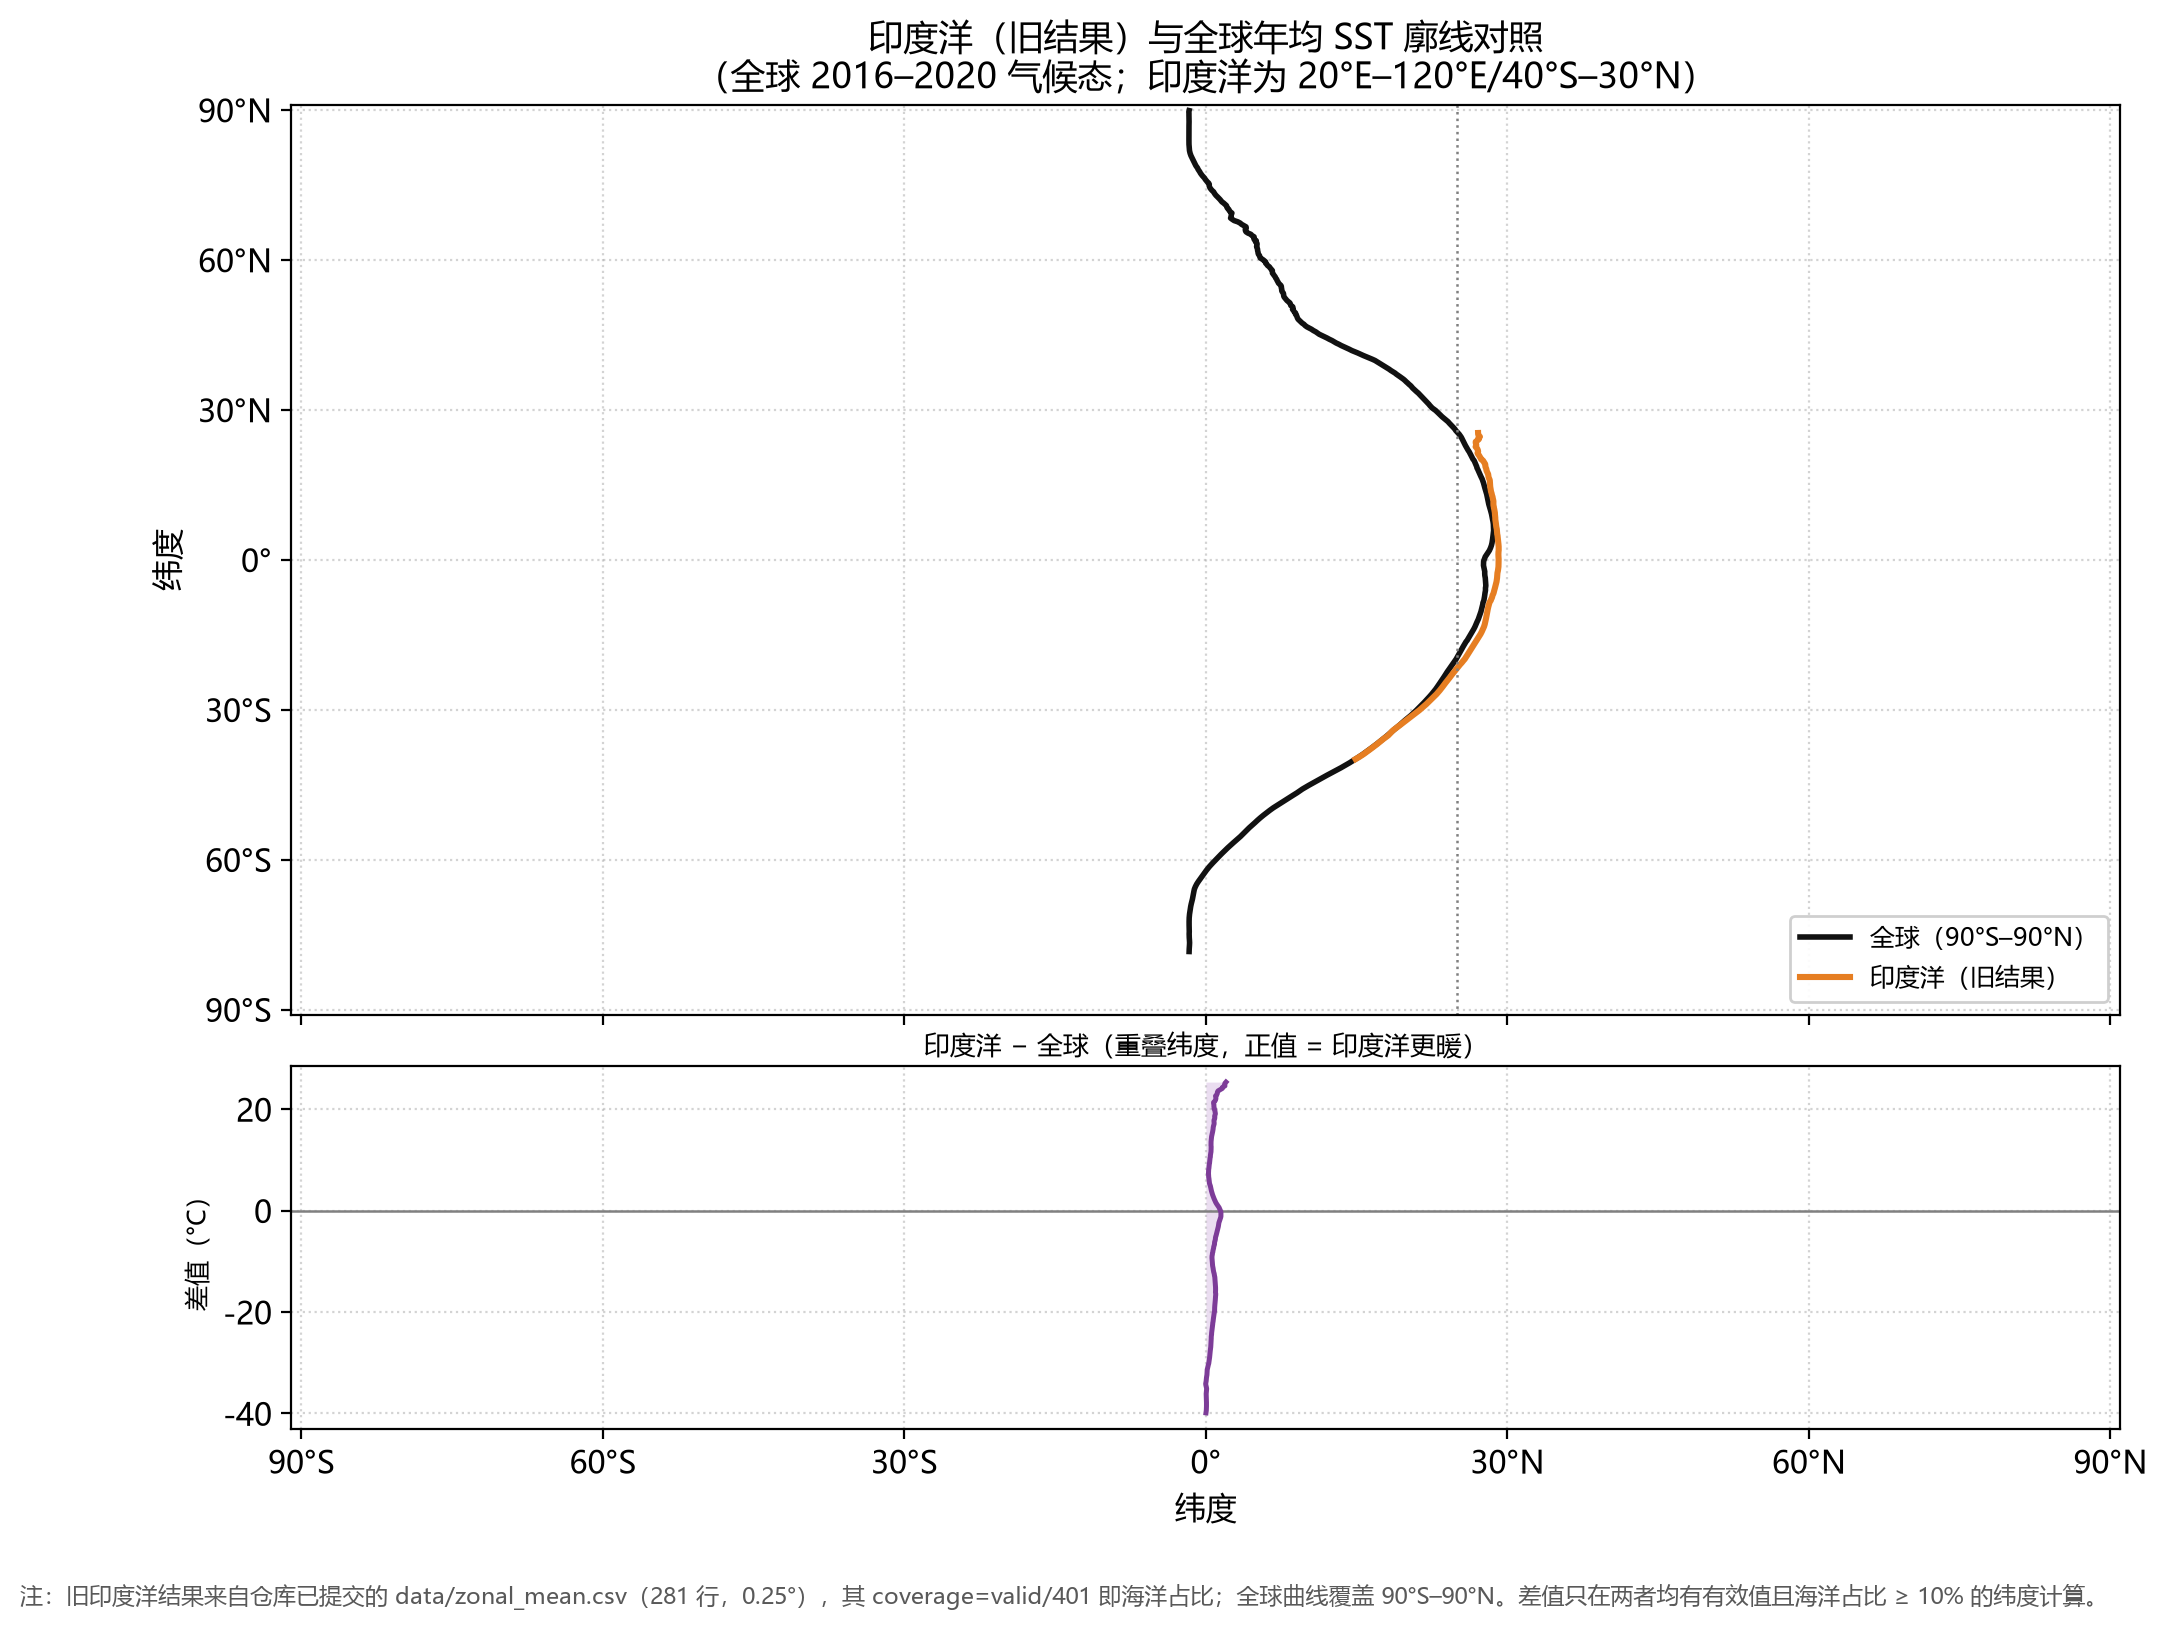
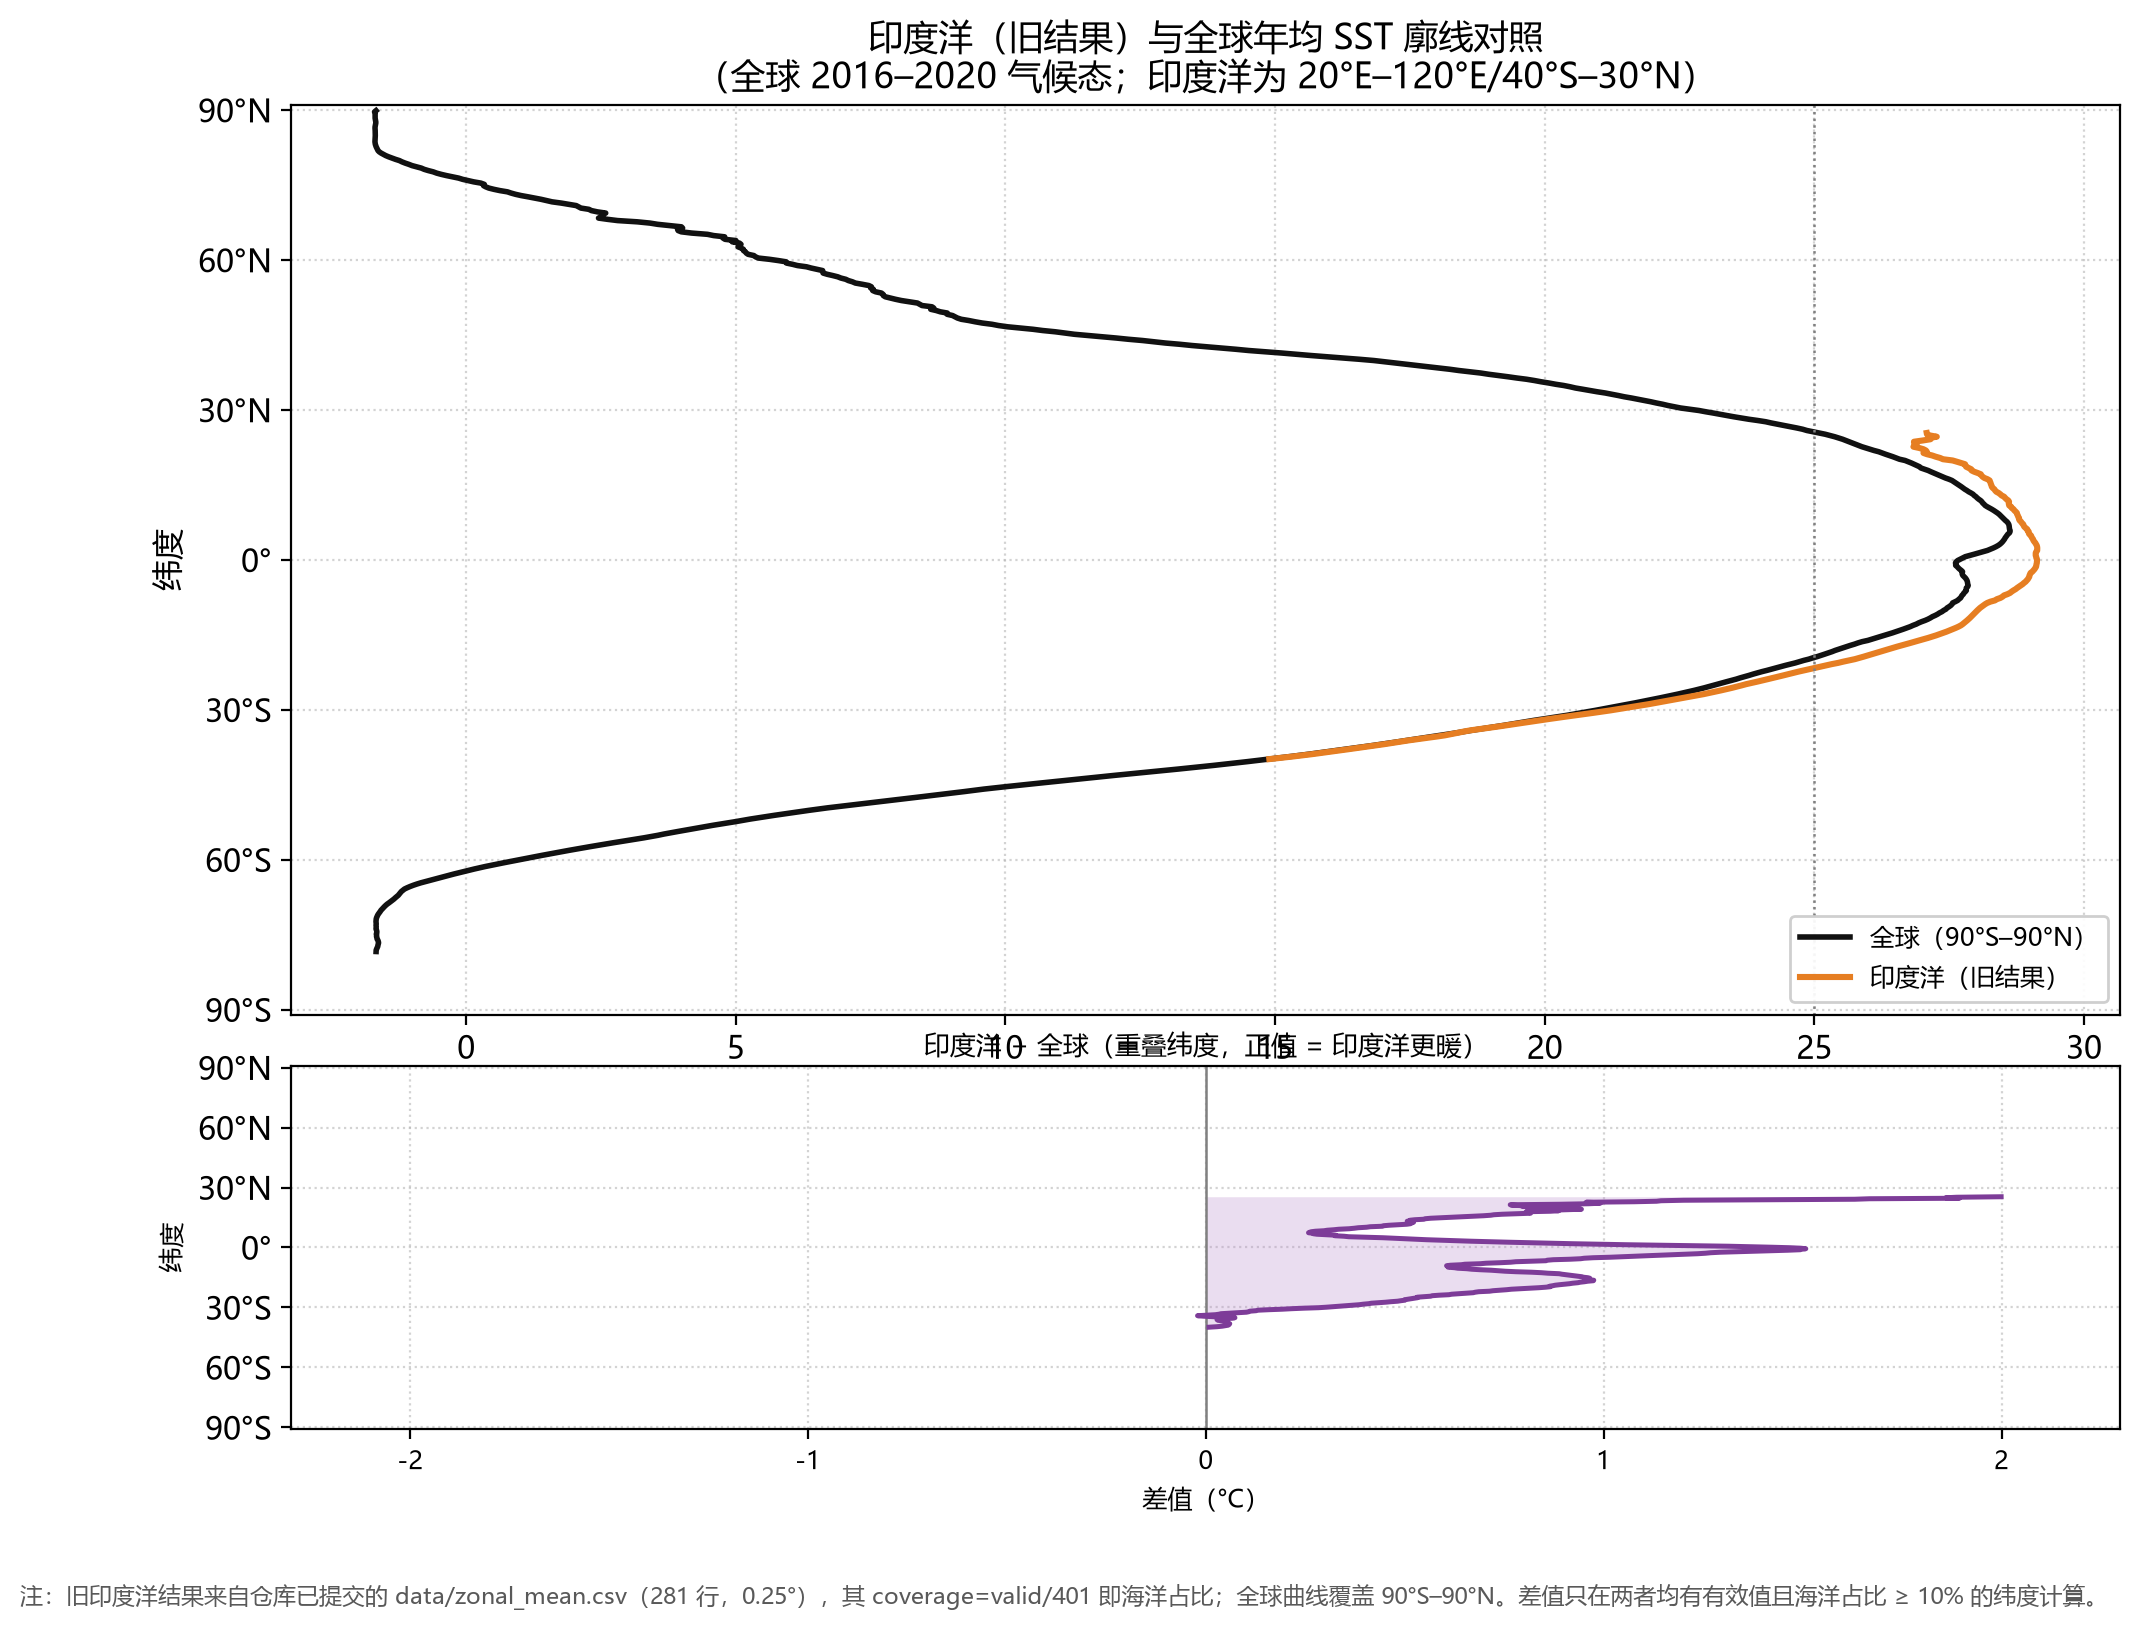
fix: 修复印度洋差值图坐标轴与地图内陆湖显示
- indian_vs_global 去掉 sharex，改 sharey=ax；主图恢复 SST 横轴，差值图独立 差值(°C) 横轴（±2.3°C），两图纬度严格对齐
- global_sst_map 先按 basin_mask=0 将里海/五大湖/拉多加湖 1302 格置 NaN（显示为灰）
- README/图注按 basins.py 实际边界、ERDDAP 格点中心与 data/raw_global 更新
- figures/dev 取消跟踪并加入 .gitignore（本地保留）
- 重出 5 张正式图；indian_vs_global 2140×1630 218KB；verify 6/0/0；run_all EXIT=0

diff --git a/scripts/plot.py b/scripts/plot.py
@@ -577,11 +577,11 @@ def plot_basins(ctx: dict, cov_min: float) -> Path:
     ax2.legend(handles=proxy, loc="lower right", framealpha=0.93, fontsize=9)
 
     note = (
-        "注：分海盆边界为近似划分（印度洋 20°E–120°E，太平洋 120°E–280°E，其余归大西洋；"
-        "66°N 以北为北冰洋，60°S 以南为南大洋）。"
-        "曲线门槛统一用海洋占比 valid_count/1440 ≥ "
-        f"{cov_min:.0%}（分盆文件无 zonal_ocean_frac 列时现算），"
-        "coverage（valid_count/ocean_grid_count）只反映冰情/缺测，不用于门槛。"
+        "注：海盆边界按 scripts/basins.py 近似实现：\n"
+        "印太 8°S 以南 120°E、8°S–6°S→105.5°E、6°S–1.5°N→103.5°E、1.5°N 以北 100.5°E（安达曼海归印度洋、南海归太平洋）；"
+        "印大 30°N 以南 20°E、以北 45°E；太西 19–66.5°N 258°E、−60°S 附近 292.75°E；\n"
+        "北冰洋 66.5°N 以北、南大洋 60°S 以南。曲线门槛用海洋占比 valid_count/1440 ≥ "
+        f"{cov_min:.0%}（分盆文件现算），coverage（valid_count/ocean_grid_count）只反映冰情/缺测，不作门槛；"
         "里海/五大湖/拉多加湖共 1302 格按内陆水体剔除。"
     )
     if ctx["synthetic"]:
@@ -601,6 +601,13 @@ def plot_map(ctx: dict, _cov_min: float = DEFAULT_COVERAGE_MIN) -> Path:
         grid_mask = npz["basin_mask"].astype(float) if "basin_mask" in npz.files else None
     if annual.shape != (len(lat), len(lon)):
         raise SystemExit(f"climatology_grid.npz 形状异常：{annual.shape} vs lat×lon")
+    if grid_mask is None and ctx["mask_npz"].exists():
+        with np.load(ctx["mask_npz"]) as npz:
+            if "basin_mask" in npz.files:
+                grid_mask = npz["basin_mask"].astype(float)
+    if grid_mask is not None and grid_mask.shape == annual.shape:
+        # 内陆湖（里海/五大湖/拉多加湖）在 basin_mask 中为 0，必须显示为陆地而不是暖色海温
+        annual = np.where(grid_mask > 0, annual, np.nan)
 
     cmap = matplotlib.colormaps["RdYlBu_r"].copy()
     cmap.set_bad("#E6E6E6")
@@ -762,11 +769,12 @@ def plot_indian_vs_global(ctx: dict, cov_min: float) -> Path:
     fig = plt.figure(figsize=(11.8, 8.6))
     gs = fig.add_gridspec(2, 1, height_ratios=[2.5, 1.0], hspace=0.08)
     ax = fig.add_subplot(gs[0, 0])
-    axd = fig.add_subplot(gs[1, 0], sharex=ax)
+    axd = fig.add_subplot(gs[1, 0], sharey=ax)
 
     ax.plot(np.where(ok_glob, sst_glob, np.nan), lat_glob, color="#111111", lw=2.0, label="全球（90°S–90°N）")
     ax.plot(np.where(ok_old, sst_old, np.nan), lat_old, color="#E67E22", lw=2.2,
             label="印度洋（旧结果）")
+    ax.set_xlabel("海表温度 SST（°C）")
     ax.set_ylabel("纬度")
     ax.yaxis.set_major_formatter(FuncFormatter(lat_formatter))
     ax.set_yticks(np.arange(-90, 91, 30))
@@ -777,16 +785,17 @@ def plot_indian_vs_global(ctx: dict, cov_min: float) -> Path:
     subtitle = "合成全球曲线（fixture）" if ctx["synthetic"] else "全球 2016–2020 气候态"
     ax.set_title(f"印度洋（旧结果）与全球年均 SST 廓线对照\n（{subtitle}；印度洋为 20°E–120°E/40°S–30°N）", fontsize=12.5)
     ax.legend(loc="lower right", framealpha=0.93, fontsize=9)
-    ax.tick_params(labelbottom=False)
+    ax.tick_params(labelbottom=True)
 
-    axd.axhline(0.0, color="0.5", lw=0.9)
+    axd.axvline(0.0, color="0.5", lw=0.9)
     axd.plot(np.where(ok_diff, diff, np.nan), lat_old, color="#7D3C98", lw=1.8)
     axd.fill_betweenx(lat_old, 0, np.where(ok_diff, diff, np.nan), color="#BB8FCE", alpha=0.3, lw=0)
-    axd.set_ylabel("差值（°C）", fontsize=9)
-    axd.set_xlabel("纬度")
-    axd.xaxis.set_major_formatter(FuncFormatter(lat_formatter))
-    axd.set_xlim(LAT_MIN - 1.0, LAT_MAX + 1.0)
-    axd.set_xticks(np.arange(-90, 91, 30))
+    axd.set_xlabel("差值（°C）", fontsize=9)
+    axd.set_ylabel("纬度", fontsize=9)
+    diff_abs = np.nanmax(np.abs(diff[ok_diff])) if ok_diff.any() else 0.5
+    lim = max(0.5, 1.15 * float(diff_abs))
+    axd.set_xlim(-lim, lim)
+    axd.tick_params(axis="x", labelsize=9)
     axd.grid(True, ls=":", lw=0.8, alpha=0.55)
     axd.set_axisbelow(True)
     axd.set_title("印度洋 − 全球（重叠纬度，正值 = 印度洋更暖）", fontsize=9.5, pad=4)

diff --git a/README.md b/README.md
@@ -21,7 +21,7 @@
   <https://coastwatch.pfeg.noaa.gov/erddap/griddap/ncdcOisst21Agg.csv>
 - **每个时次的请求**（原生 0.25°，不加 stride，全球范围）：
   ```
-  ?sst[(YYYY-MM-16T12:00:00Z):1:(YYYY-MM-16T12:00:00Z)][(0.0):1:(0.0)][(-90.0):1:(90.0)][(0.0):1:(359.75)]
+  ?sst[(YYYY-MM-16T12:00:00Z):1:(YYYY-MM-16T12:00:00Z)][(0.0):1:(0.0)][(-89.875):1:(89.875)][(0.125):1:(359.875)]
   ```
 - **时次**：2016–2020 年，每月 16 日 12:00 UTC 一个时次，共 **60 个**。
 - **返回规模**：2 行表头 + 720 × 1440 = 1,036,800 行数据。**实测体积**：单时次 CSV **45.8 MB**；
@@ -51,7 +51,7 @@
 │   ├── global_sst_map.png
 │   ├── lat_month_heatmap.png
 │   ├── indian_vs_global.png
-│   ├── dev/                      # fixture 自测图（合成数据，带水印，可入库）
+│   ├── dev/                      # fixture 自测图（合成数据；已 gitignore，不入库）
 │   ├── sst_vs_latitude.png       # 旧印度洋曲线（保留）
 │   └── lat_month_heatmap_indian.png  # 旧印度洋热图（保留；全局同名图占用了 lat_month_heatmap.png）
 ├── scripts/
@@ -187,12 +187,13 @@
 | 文件 | 像素 | 体积 |
 | --- | --- | --- |
 | `global_sst_vs_latitude.png` | 2198 × 1457 | 347 KB |
-| `basins_sst_vs_latitude.png` | 3750 × 1421 | 430 KB |
-| `global_sst_map.png` | 2215 × 1187 | 589 KB |
+| `basins_sst_vs_latitude.png` | 2605 × 1421 | 421 KB |
+| `global_sst_map.png` | 2215 × 1187 | 586 KB |
 | `lat_month_heatmap.png` | 2507 × 1318 | 170 KB |
-| `indian_vs_global.png` | 2167 × 1630 | 192 KB |
+| `indian_vs_global.png` | 2140 × 1630 | 218 KB |
 
-`figures/dev/` 仍保留 fixture 自测图（带「合成数据」水印），仅用于无真实数据时的开发自测，不用于任何结论。
+`figures/dev/` 仅作为本地 fixture 自测输出（带「合成数据」水印），已在 `.gitignore` 中排除、不跟踪，
+不用于任何结论。
 正式图图注已写明：里海（719 格）+ 北美五大湖（531 格）+ 拉多加湖（52 格）共 **1302** 个内陆水体格点
 按 `basin_mask=0` 剔除；`coverage = valid_count/ocean_grid_count`，
 曲线绘制阈值看 `zonal_ocean_frac = valid_count/1440`。
@@ -285,9 +286,14 @@ fixture 自测仍保留：`verify.py --data-dir .tmp/fixture --skip-online` →
 - **10% 海洋占比阈值与极地海冰**：北冰洋冬季、南大洋高纬在 60 个时次平均后有效海洋格点可能低于 10%，
   这些纬度不绘制；阈值附近结果对阈值敏感。注意这里用的是 `zonal_ocean_frac = valid_count/1440`，
   不是 `coverage`（有数据比例）。
-- **海盆边界是近似划分**：印度洋 20°E–120°E、太平洋 120°E–280°E，其余归大西洋，66°N 以北为北冰洋、
-  60°S 以南为南大洋；与正式海盆定义存在差异，分盆均温只用于量级对比。`basin_mask.npz` 的海盆边界
-  只用于地图示意。
+- **海盆边界是近似划分**（按 `scripts/basins.py` 实际实现）：
+  - 印度洋–太平洋：8°S 以南 120°E；8°S–6°S 线性过渡到 105.5°E，6°S–1.5°N 继续过渡到
+    103.5°E，1.5°N 以北 100.5°E（沿马来半岛；安达曼海归印度洋、南海归太平洋）；
+  - 印度洋–大西洋：30°N 以南 20°E，30°N 以北 45°E（地中海东段与黑海归大西洋）；
+  - 太平洋–大西洋：19°N–66.5°N 用 258°E（102°W 美洲分水岭），−60°S 附近 292.75°E
+    （德雷克海峡；−55°S–8.5°N、8.5°N–19°N 为过渡段）；
+  - 北冰洋 = 66.5°N 以北，南大洋 = 60°S 以南。
+  与正式海盆定义仍有差异，分盆均温只用于量级对比；`basin_mask.npz` 的海盆边界只用于地图示意。
 - **每月只取 16 日一个时次**：不能代表整月平均，也不反映 MJO、季节内振荡；5 年气候态仍受 ENSO/IOD 影响。
 - **0.25°（约 28 km）分辨率**无法解析近岸、海峡和海湾；OISST 近岸为插值/掩膜结果，存在不确定性。
 - **纬向平均抹平经向差异**：不能替代阿拉伯海、孟加拉湾、副热带环流等区域分析。
@@ -305,7 +311,7 @@ fixture 自测仍保留：`verify.py --data-dir .tmp/fixture --skip-online` →
 - **`data/zonal_mean_global.csv` / `zonal_mean_basins.csv` / `climatology_grid.npz` 入库**（数据侧产出），
   是全部全球结论的数值基础。
 - **`data/zonal_mean.csv` 入库**：旧印度洋 281 行结果，作为回归基准保留。
-- **`figures/` 五张全球 PNG 入库**；`figures/dev/` 的 fixture 图可入库但单图 < 2 MB，且必须保留合成水印。
+- **`figures/` 五张全球 PNG 入库**；`figures/dev/` 的 fixture 图本地生成但不入库（已 gitignore）。
 - **`data/verify_report.json` 不入库**（`.gitignore` 已忽略），由 `verify.py` 随时重新生成。
 - 原始 CSV 未压缩约 2.75 GB，故以 gzip 无损压缩保存；读取时解压，内容不变。
 
